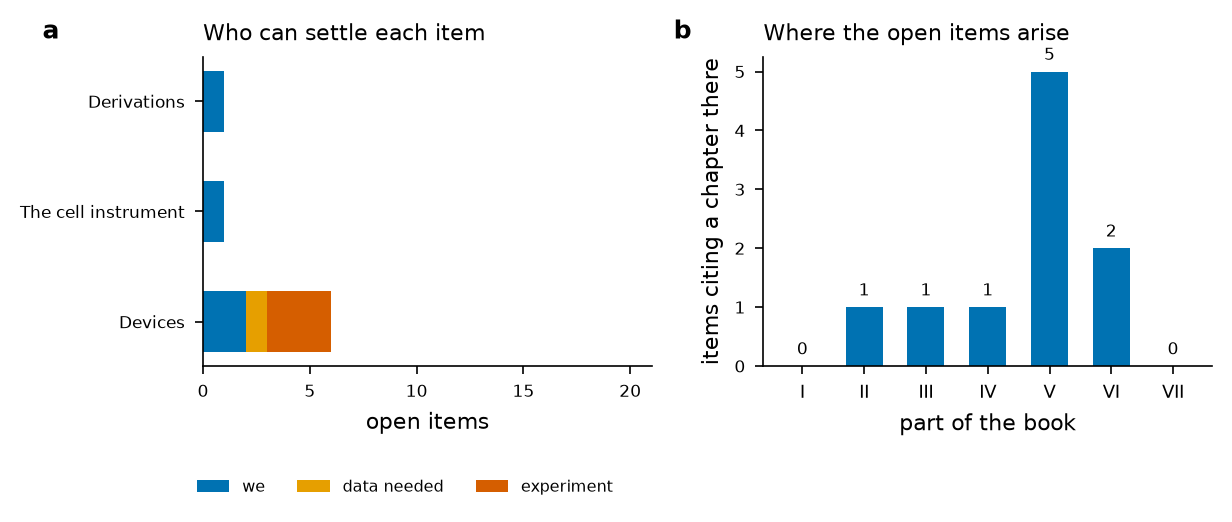
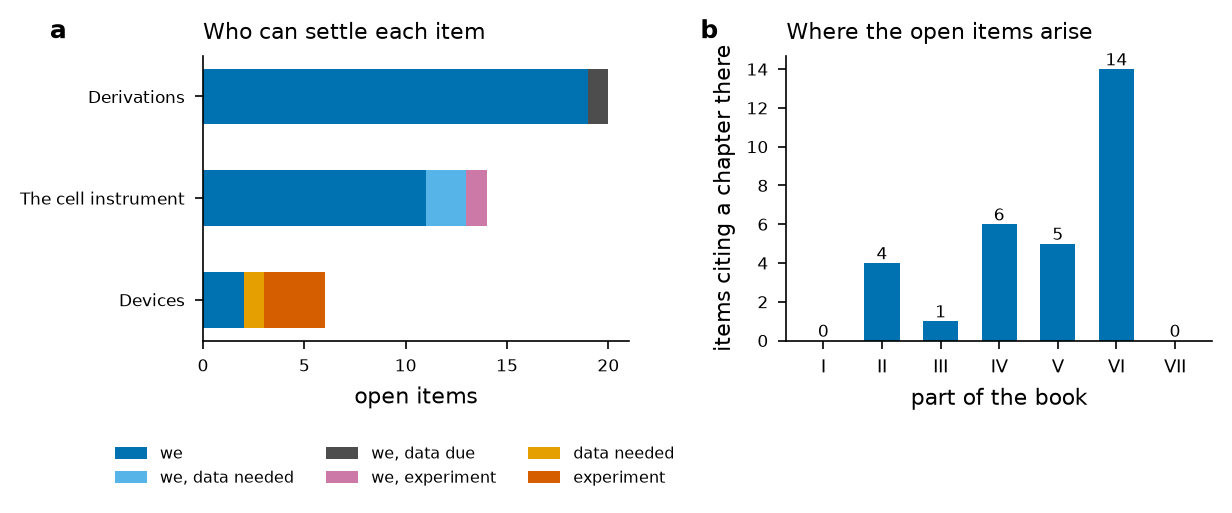
Item 22: fig_open_items counts every row of the p7_09 tables (D1-D20, I1-I14, Q1-Q6)
The row splitter in fig_p5_extra.py split only on '\\' followed by a newline, so rows ending in
'\\\cmidrule[0.2pt]{1-3}' were merged and most items were missed. Split on both endings; rerun.

Claude-Session: https://claude.ai/code/session_01YZ7FkBLCi5Ad23AywtcAcX

diff --git a/docs/book/figscripts/fig_p5_extra.py b/docs/book/figscripts/fig_p5_extra.py
@@ -327,7 +327,7 @@ p509 = txt["part7/p7_09_open"]
 groups = {}
 for sec, body in re.findall(r"\\section\{([^}]*)\}\s*\{\\small\\begin\{longtable\}(.*?)\\end\{longtable\}", p509, re.S):
     items = []
-    for row in re.split(r"\\\\\s*\n", body.split("\\endhead", 1)[1]):
+    for row in re.split(r"\\\\(?:\\cmidrule\[[^]]*\]\{[^}]*\})?\s*\n", body.split("\\endhead", 1)[1]):  # a row ends in \\ or \\\cmidrule[..]{..}
         mm = re.search(r"\\textbf\{([A-Z]\d+)\.", row)
         if not mm:
             continue
